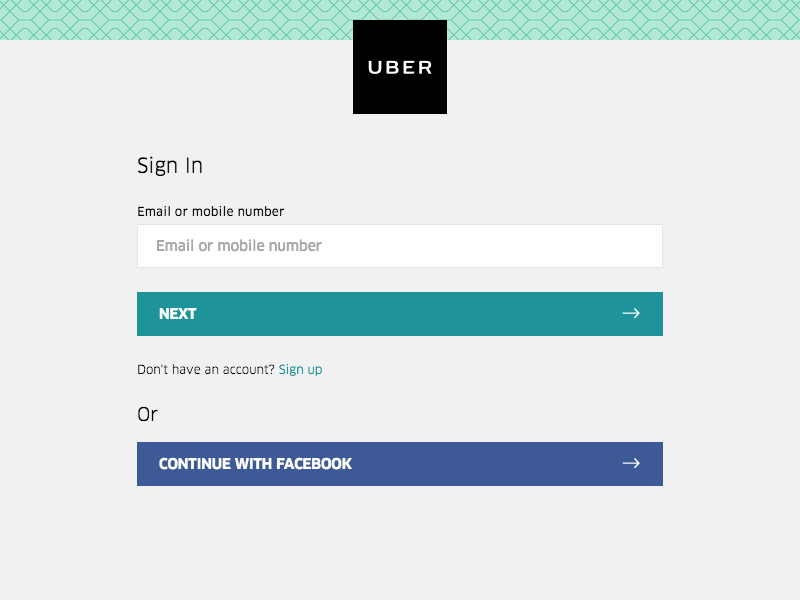
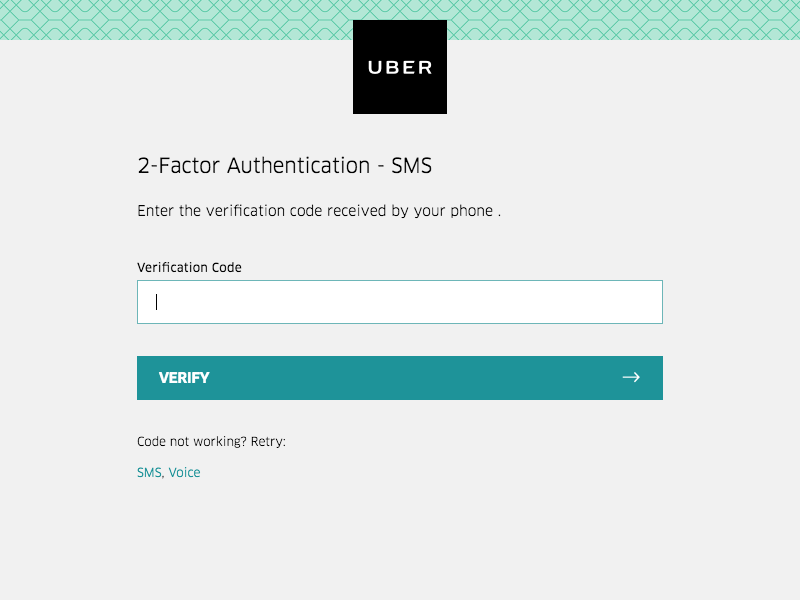
Initial progres

diff --git a/index.js b/index.js
@@ -1,5 +1,30 @@
 const puppeteer = require('puppeteer');
+const inquire = require('inquirer');
 const CREDS = require('./creds');
+const _ = require('lodash');
+
+const desktop_agents = ['Mozilla/5.0 (Windows NT 6.1; WOW64) AppleWebKit/537.36 (KHTML, like Gecko) Chrome/54.0.2840.99 Safari/537.36',
+                 'Mozilla/5.0 (Windows NT 10.0; WOW64) AppleWebKit/537.36 (KHTML, like Gecko) Chrome/54.0.2840.99 Safari/537.36',
+                 'Mozilla/5.0 (Windows NT 10.0; Win64; x64) AppleWebKit/537.36 (KHTML, like Gecko) Chrome/54.0.2840.99 Safari/537.36',
+                 'Mozilla/5.0 (Macintosh; Intel Mac OS X 10_12_1) AppleWebKit/602.2.14 (KHTML, like Gecko) Version/10.0.1 Safari/602.2.14',
+                 'Mozilla/5.0 (Windows NT 10.0; WOW64) AppleWebKit/537.36 (KHTML, like Gecko) Chrome/54.0.2840.71 Safari/537.36',
+                 'Mozilla/5.0 (Macintosh; Intel Mac OS X 10_12_1) AppleWebKit/537.36 (KHTML, like Gecko) Chrome/54.0.2840.98 Safari/537.36',
+                 'Mozilla/5.0 (Macintosh; Intel Mac OS X 10_11_6) AppleWebKit/537.36 (KHTML, like Gecko) Chrome/54.0.2840.98 Safari/537.36',
+                 'Mozilla/5.0 (Windows NT 6.1; WOW64) AppleWebKit/537.36 (KHTML, like Gecko) Chrome/54.0.2840.71 Safari/537.36',
+                 'Mozilla/5.0 (Windows NT 6.1; Win64; x64) AppleWebKit/537.36 (KHTML, like Gecko) Chrome/54.0.2840.99 Safari/537.36',
+                 'Mozilla/5.0 (Windows NT 10.0; WOW64; rv:50.0) Gecko/20100101 Firefox/50.0'];
+
+const questions = [
+  {
+    type: 'input',
+    name: 'verification_code',
+    message: 'Please enter verification code"'
+  }
+];
+
+function sleep(ms) {
+  return new Promise(resolve => setTimeout(resolve, ms));
+}
 
 async function run() {
   const browser = await puppeteer.launch({
@@ -8,7 +33,37 @@ async function run() {
 
   const page = await browser.newPage();
 
+  await page.setUserAgent(desktop_agents[Math.floor(Math.random()*desktop_agents.length)]);
+
   await page.goto('https://auth.uber.com/login/');
+
+  const EMAIL_SELECTOR = '#useridInput';
+  const PASSWORD_SELECTOR = '#password';
+  const SMS_SELECTOR ='#verificationCode';
+  const NEXT_BUTTON = '#app-body > div > div:nth-child(1) > form > button';
+
+  // Input Email/ Username
+  await page.click(EMAIL_SELECTOR,200);
+  await page.keyboard.type(CREDS.email);
+  await page.click(NEXT_BUTTON);
+
+  await sleep(1000);
+
+  // Input Password for account
+  await page.waitForSelector(PASSWORD_SELECTOR,200);
+  await page.click(PASSWORD_SELECTOR);
+  await page.keyboard.type(CREDS.password);
+  await page.click(NEXT_BUTTON);
+
+  await sleep(1000);
+
+  // Input SMS verification
+  await page.waitForSelector(SMS_SELECTOR);
+  inquire.prompt(questions).then(answers => {
+    console.log(answers);
+  });
+
+
   await page.screenshot({path: 'screenshots/uber.png'});
 
   browser.close();
